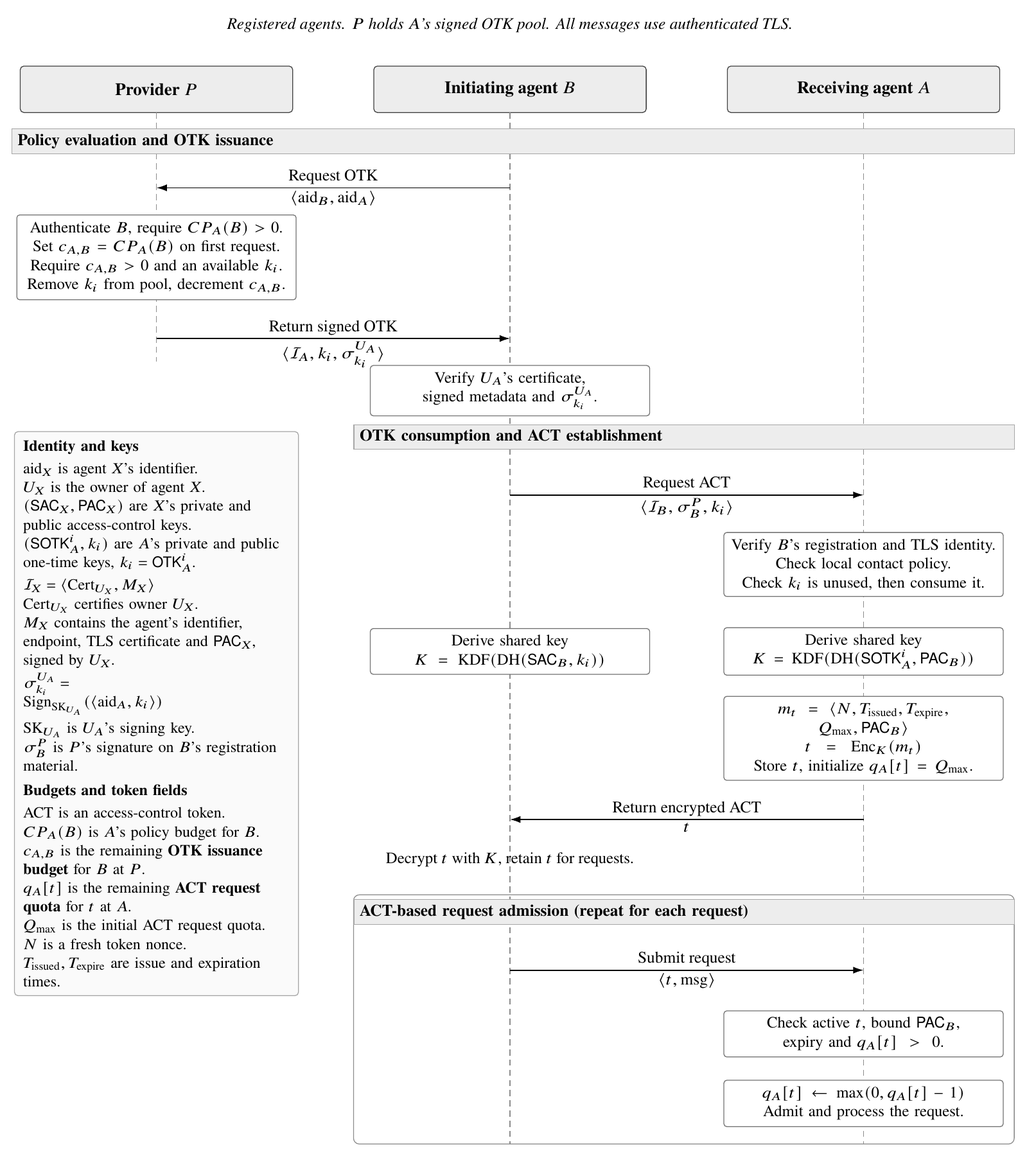
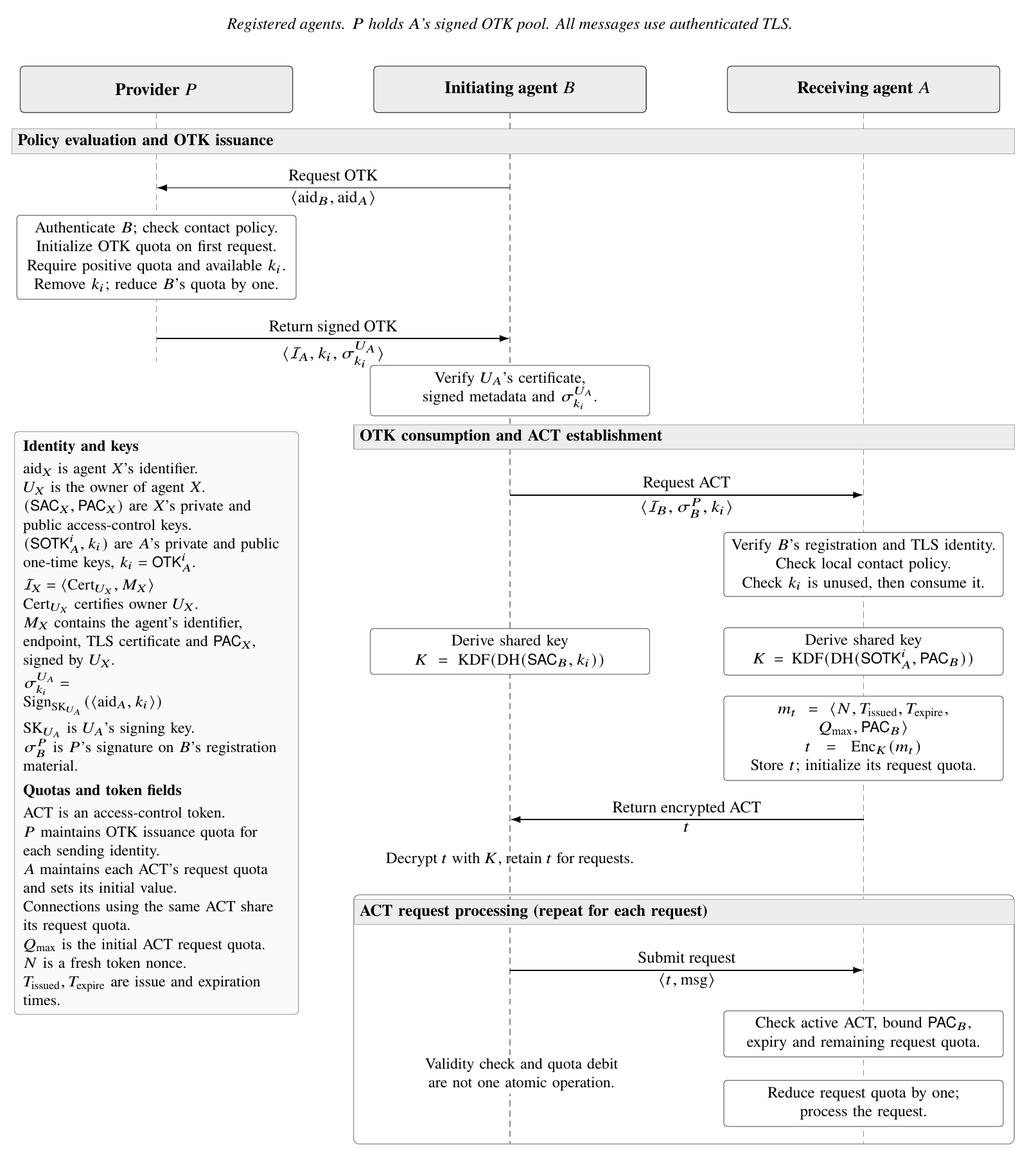
修改

diff --git a/paper_letter/draft_zh/03_形式化建模与验证设置.tex b/paper_letter/draft_zh/03_形式化建模与验证设置.tex
@@ -2,19 +2,21 @@
 % !TeX program = xelatex
 % Definitions are tied to the archived inputs identified in the source comments.
 
-\section{形式化模型的构建}
+\section{形式化建模与验证设置}
 \label{sec:formal-modeling-analysis-setup}
 
-SAGA 的接触策略、OTK 和 ACT 分别涉及规则求值、密钥发放与使用以及请求额度控制。接触策略通过参考求值与实际函数对照，并利用 ProVerif 分析授权差异对后续通信的影响；OTK 采用 Tamarin 检查发放与使用的身份关系；ACT 采用 TLA$^{+}$ 检查多个连接共享令牌额度时的并发行为。
+SAGA 的授权过程涉及接触策略匹配、OTK 发放与使用以及 ACT 请求额度控制。针对这三个环节，分别建立独立策略求值程序、Tamarin 符号模型和 TLA$^{+}$ 额度模型，并结合 ProVerif 与 TLC 检查相应的安全性质。
 
 \subsection{接触策略求值与验证}
 \label{subsec:policy-evaluation-model}
 
-接触策略根据发送方 AID 和有序规则集确定 OTK 领取预算。为独立计算预期结果，构建参考求值器，依据匹配器的评分规则对匹配规则进行选择。参考求值器支持三类规则：全通配规则（\texttt{*}）、精确小写 ASCII AID 和固定 UID 的名称通配规则（\texttt{uid:*}）。三类规则的评分分别为 $0$、UID 长度的四倍与名称长度的八倍之和，以及 UID 长度的四倍加 $2$。对于匹配规则，选择评分最高的唯一规则，并返回其对应预算；无匹配规则时返回预算 $0$。当规则语法不受支持或最高评分存在并列时，不产生求值结果。预算大于 $0$ 表示允许，否则表示拒绝。
+接触策略根据发送方 AID 和有序规则集确定 OTK 领取额度。为独立检查参考实现中的匹配函数，另行实现策略求值程序，按照 SAGA 的规则优先级选择最匹配的规则。该程序支持三类规则：全通配规则（\texttt{*}）、精确小写 ASCII AID，以及固定 UID 的名称通配规则（\texttt{uid:*}）。三类规则的评分分别为 $0$、$4|UID|+8|name|$ 和 $4|UID|+2$。对于匹配的规则，选择分值最高的一条并返回其预算；无匹配规则时返回预算 $0$。若规则格式超出程序支持范围，或最高分值并列，则程序不产生求值结果。
 
-生产匹配函数的实际返回值作为实现侧结果。将其与参考求值器在相同身份和有序规则集下的求值结果进行对照，并核验输入内容、规则顺序及对应的实现版本，以检查规则选择和预算计算的一致性。
+独立策略求值程序将预算大于 $0$ 判为允许，小于等于 $0$ 判为拒绝。参考实现中的 Provider \texttt{/access} 接口在预算小于等于 $0$ 时拒绝发放 OTK，接收方的本地策略检查则仅在预算小于 $0$ 时拒绝~\cite{sagaReferenceImpl2026}。
 
-为分析策略决策差异对通信协议执行的影响，将参考求值器判定拒绝而生产匹配函数判定允许的结果作为 ProVerif 模型的场景输入。在该场景下，利用原有通信协议模型检查应用请求接受事件与令牌签发事件之间的对应关系，以及应用请求接受事件的可达性。相应的原生查询如下：
+独立策略求值程序的结果作为预期结果，参考实现中匹配函数的实际返回值作为实现侧结果。比较时保持发送方 AID 和有序规则集一致，并记录输入内容、规则顺序及对应的实现版本，以检查两者在规则选择和预算返回方面是否一致。
+
+为分析策略决策差异对后续通信的影响，将独立策略求值程序判定为拒绝、而参考实现中的匹配函数判定为允许的结果作为 ProVerif 模型的场景输入。利用原有通信协议模型检查请求接受事件与此前令牌签发事件之间的对应关系，并检查请求接受事件是否可达。相应的 ProVerif 查询如下：
 
 \noindent\begin{minipage}{\linewidth}
 \renewcommand{\verbatimsize}{\small}
@@ -30,18 +32,18 @@ query receiver: bitstring, sender: bitstring,
 \end{verbatim}
 \end{minipage}
 
-受控消费者实验进一步检查策略决策在实际授权流程中的传播。实验设置双方均允许（A/A）、双方均拒绝（D/D），以及参考求值器拒绝而生产实现允许（D/A）三种场景。执行过程中记录 Provider 和接收方的策略匹配结果及 Provider 的 \texttt{/access} 响应，并检查 OTK 发放、接收方令牌处理、ACT 签发与存储，以及发送方对返回令牌的解密和元数据核对。对于 D/D 场景，Provider 拒绝请求，后续接收方处理流程不再执行。
+基于参考实现的实验进一步检查策略判定结果对实际授权流程的影响。实验包括双方均允许（A/A）、双方均拒绝（D/D），以及独立策略求值程序拒绝而参考实现允许（D/A）三种场景。执行过程中记录 Provider 和接收方的策略匹配结果及 Provider 的 \texttt{/access} 响应，并检查 OTK 发放、接收方对 OTK 的处理、ACT 签发与存储，以及发送方对返回 ACT 的解密和元数据核对。
 
 \subsection{OTK 发放与使用模型}
 \label{subsec:otk-issuance-use-model}
 
-OTK 的领取额度由 Provider 维护，消费状态由接收方维护。Tamarin 模型分别记录两端状态，检查成功使用 OTK 的发送方是否与此前领取该 OTK 的身份一致。模型包含 Provider $P$、接收方 $A$ 和发送方 $B,C$。初始化时，$A$ 持有两枚 OTK，$B$ 和 $C$ 各有一次不可补充的领取额度。
+OTK 的领取额度由 Provider 维护，消费状态由接收方维护。Tamarin 模型分别表示 Provider 的 OTK 领取额度和接收方的 OTK 消费状态，检查实际使用 OTK 的发送方是否与此前从 Provider 领取该 OTK 的发送方一致。模型包含 Provider $P$、接收方 $A$ 和发送方 $B,C$。初始化时，$A$ 持有两枚 OTK，$B$ 和 $C$ 各有一次不可补充的领取额度。
 
-模型使用线性事实表示 Provider 的领取额度、待发放 OTK 和接收方尚未消费的 OTK。Provider 发放 OTK 时消耗对应的领取额度和待发放密钥，接收方签发 ACT 时消耗相应的 OTK；发送方则通过持久事实保存已获得的 OTK 公钥。参与方身份与访问控制公钥（PAC）的绑定关系作为初始事实，TLS 信道表示为带端点身份的私有消息。密码学部分采用 DH 等式理论、带域标签的哈希 KDF 和理想对称加密，ACT 密文包含发送方 PAC，以保持令牌与身份的绑定关系。
+模型使用线性事实表示 Provider 的领取额度、待发放 OTK 和接收方尚未消费的 OTK。Provider 发放 OTK 时消耗对应的领取额度和待发放密钥，接收方签发 ACT 时消耗相应的 OTK；发送方则通过持久事实保存已获得的 OTK 公钥。将参与方身份与其访问控制公钥（PAC）的对应关系设为初始事实，并使用包含通信双方身份的私有消息表示 TLS 保护的通信。密码学部分采用 DH 等式理论、带域标签的哈希 KDF 和理想对称加密，ACT 密文包含发送方 PAC，以保持令牌与身份的绑定关系。
 
 威胁模型允许 $B$ 将已领取的 OTK 公钥转交给 $C$。当 $C$ 自身的 OTK 领取额度耗尽后，仍可使用 $B$ 转交的 OTK，以自身登记身份、PAC 和私钥申请 ACT。每枚 OTK 至多转交一次。基准配置中，Provider 和接收方均允许 $B,C$ 通信，并设置禁止 OTK 转交及双方拒绝 $C$ 的对照配置。
 
-Tamarin 通过协议事件记录 OTK 发放、ACT 签发、客户端解密和应用请求接受之间的执行关系。模型首先检查原有的 OTK 发放次数限制，以及单枚 OTK 的唯一发放与消费约束。在此基础上，进一步检查 OTK 发放身份与实际使用者身份的一致性，以及同一发送方成功使用的不同 OTK 数量是否至多为一枚。其中，身份一致性性质的原生定义如下：
+Tamarin 通过协议事件记录 OTK 发放、ACT 签发、客户端解密和应用请求接受之间的执行关系。模型首先检查原有的 OTK 发放次数限制，以及单枚 OTK 的唯一发放与消费约束。在此基础上，进一步检查 OTK 发放身份与实际使用者身份的一致性，以及同一发送方成功使用的不同 OTK 数量是否至多为一枚。领取者与实际使用者身份一致性由以下 Tamarin 引理表达：
 
 \begingroup
 \renewcommand{\verbatimsize}{\footnotesize}
@@ -57,14 +59,14 @@ lemma successful_use_requires_issue_to_same_sender:
 \end{minipage}
 \endgroup
 
-其中，\texttt{ProviderIssue} 表示 Provider 发放 OTK 的事件，\texttt{RequestAccepted} 表示接收方接受应用请求的事件。该性质要求成功接受的请求能够追溯到此前向同一发送方发放相应 OTK 的事件。辅助引理进一步检查 OTK 的发放与消费次数，以及请求接受与此前 ACT 签发、客户端解密事件之间的对应关系。
+其中，\texttt{ProviderIssue} 表示 Provider 发放 OTK 的事件，\texttt{RequestAccepted} 表示接收方接受应用请求的事件。该性质要求成功接受的请求能够追溯到此前向同一发送方发放相应 OTK 的事件。辅助引理进一步检查 OTK 的发放与消费次数，以及请求被接受前是否发生相应的 ACT 签发和客户端解密事件。
 
-\subsection{ACT 并发配额模型}
+\subsection{ACT 并发请求额度模型}
 \label{subsec:act-quota-model}
 
-ACT 并发配额模型采用 TLA$^{+}$ 描述多个连接共享同一令牌额度时的执行过程。模型初始化时，发送方与接收方均保存同一 ACT，双方初始余额均为令牌额度。接收方共享余额记录可用额度，各连接的局部状态记录请求处理进度，发送方余额和消息交付状态则用于表示双端处理过程。
+ACT 请求额度模型采用 TLA$^{+}$ 描述多个连接共享同一 ACT 请求额度时的执行过程。模型初始化时，发送方与接收方均保存同一 ACT，双方的额度状态均设为令牌的初始额度。接收方的共享余额表示该 ACT 的剩余请求额度；各连接的状态变量记录请求处理阶段，发送方余额和消息交付状态用于描述双端处理过程。
 
-连接建立时，接收方检查令牌元数据和剩余额度；请求解析后，再次检查令牌元数据及正余额，使连接进入已检查状态。随后，令牌检查与额度扣减分别建模为原子动作，对应参考实现中的两个独立持锁临界区~\cite{sagaReferenceImpl2026}。额度扣减动作以连接已通过检查为条件，重新获取锁后更新共享余额，不再检查当前余额是否为正。扣减通过 \texttt{Clamp} 将余额保持为非负值，同时增加该连接的准入计数。两个动作之间允许其他连接交错执行。扣减动作的原生定义如下：
+连接建立时，接收方检查令牌元数据和剩余额度；请求解析后，再次检查令牌元数据及正余额，使连接进入已检查状态。模型将令牌有效性检查与额度扣减分别表示为两个原子动作，对应参考实现中的两个独立持锁临界区~\cite{sagaReferenceImpl2026}。额度扣减动作以连接已通过检查为条件，重新获取锁后更新共享余额，但不再检查当前余额是否为正。扣减通过 \texttt{Clamp} 将余额保持为非负值，同时增加该连接已完成额度扣减的请求计数。由于检查与扣减不是同一个原子操作，两个动作之间允许其他连接交错执行。TLA$^{+}$ 动作定义如下：
 
 \begingroup
 \renewcommand{\verbatimsize}{\footnotesize}
@@ -85,7 +87,7 @@ ADebit(c) ==
 \end{minipage}
 \endgroup
 
-模型累计各连接完成额度扣减的请求数，并检查其是否超过 ACT 的初始额度。相应的原生定义如下：
+模型将各连接已完成额度扣减的请求数相加，并检查累计额度扣减次数是否超过 ACT 的初始请求额度。配额安全不变量在 TLA$^{+}$ 中定义如下：
 
 \begingroup
 \renewcommand{\verbatimsize}{\footnotesize}
@@ -101,4 +103,4 @@ ReceiverQuotaSafety == Accepted <= InitialQuota
 \end{minipage}
 \endgroup
 
-其中，\texttt{Accepted} 表示累计通过检查并完成额度扣减的请求数。TLC 检查该配额安全不变量，以及模型状态类型和余额、请求计数之间的一致性。有限状态检查将初始额度设为 $1$，设置两个连接，每个连接最多提交一个请求，并保持令牌元数据有效。
+其中，\texttt{Accepted} 表示各连接已完成额度扣减的请求总数。TLC 检查该请求额度安全不变量，以及模型状态类型和余额、请求计数之间的一致性。有限状态检查将初始请求额度设为 $1$，设置两个连接，每个连接最多提交一个请求，并保持令牌元数据有效。

diff --git a/paper_letter/draft_zh/04_验证结果与安全分析.tex b/paper_letter/draft_zh/04_验证结果与安全分析.tex
@@ -5,43 +5,43 @@
 \section{验证结果与安全分析}
 \label{sec:results}
 
-对 SAGA 授权过程的分析发现了三个问题：接触策略匹配错误、OTK 发放与使用身份不一致，以及多个连接并发使用同一 ACT 时可能超过其额度。以下分别给出验证结果、具体反例及问题产生的原因。
+对 SAGA 授权过程的分析发现了三个问题：接触策略匹配器未正确选择最匹配的规则、OTK 未与领取者身份绑定，以及 ACT 并发请求额度超限。以下分别给出验证结果、具体反例及问题产生的原因。
 
-\subsection{策略求值不一致}
+\subsection{接触策略匹配错误}
 \label{subsec:policy-evaluation-consistency}
 
-接触策略匹配函数的结果受到规则排列顺序影响，使本应被拒绝的发送方可能获得通信许可。对于身份 \texttt{alice@example.com:agent}，规则 \texttt{alice@example.com:*} 的预算为 $-1$，通配规则 \texttt{*} 的预算为 $10$，两者的具体性评分分别为 $70$ 和 $0$。按照最具体规则优先的要求，两种排列下的预期预算均为 $-1$。然而，当具体规则位于通配规则之前时，原始匹配函数返回 $10$；交换规则顺序后则返回 $-1$。
+接触策略匹配函数的返回值受到规则排列顺序影响，使本应被拒绝的发送方可能获得通信许可。对于身份 \texttt{alice@example.com:agent}，规则 \texttt{alice@example.com:*} 的预算为 $-1$，通配规则 \texttt{*} 的预算为 $10$。按照最匹配规则优先的要求，无论两条规则以何种顺序排列，均应选择该具体规则并返回预算 $-1$。然而，当具体规则位于通配规则之前时，参考实现中的匹配函数返回 $10$；交换规则顺序后则返回 $-1$。
 
-该错误源于匹配函数未正确更新当前最佳匹配规则。\texttt{best\_pattern} 初始化为 \texttt{None}，对应的初始评分为 $-1$。匹配到具体规则时，函数更新了预算，却未同步更新最佳匹配规则。因此，后续通配规则的评分 $0$ 仍与初始评分 $-1$ 比较，最终将预算覆盖为 $10$~\cite{sagaReferenceImpl2026}。
+该错误源于匹配函数未能正确更新当前最佳匹配规则。函数匹配到具体规则时更新了预算，却未同步更新 \texttt{best\_pattern}。因此，后续通配规则的分值 $0$ 仍与初始最佳分值 $-1$ 比较，最终将预算覆盖为 $10$~\cite{sagaReferenceImpl2026}。
 
-在参考求值器返回拒绝、实际匹配函数返回允许的场景中，ProVerif 对 \texttt{ChatAccept} 不可达性的查询返回 \texttt{false}，表明该事件存在可达执行路径；请求接受与令牌签发的对应查询返回 \texttt{true}，表明每个请求接受事件均对应相同接收方、发送方及令牌的先前签发事件。因此，存在令牌签发后应用请求被接受的执行路径。
+在独立策略求值程序返回拒绝、实际匹配函数返回允许的场景中，ProVerif 的 \texttt{ChatAccept} 事件可达性查询返回 \texttt{false}，表明存在触发该事件的执行路径；请求接受与令牌签发的对应查询返回 \texttt{true}，表明每个请求接受事件均对应相同接收方、发送方及令牌的先前签发事件。因此，存在令牌签发后应用请求被接受的执行路径。
 
-基于参考实现的验证实验进一步检查了该错误对实际授权流程的影响。在参考求值拒绝、实际实现允许（D/A）场景中，Provider 与接收方的匹配函数均返回预算 $10$。Provider 的 \texttt{/access} 请求返回 HTTP 200 并发放 OTK，接收方随后完成 OTK 消费及 ACT 签发与存储。发送方成功解密返回的 ACT，其内容与接收方保存的记录一致。在双方均拒绝（D/D）场景中，Provider 返回预算 $-1$，请求以 HTTP 403 拒绝；双方均允许（A/A）场景则正常完成 ACT 签发与存储。
+基于参考实现的验证实验进一步检查了该错误对实际授权流程的影响。在独立策略求值程序拒绝、参考实现允许（D/A）场景中，Provider 与接收方的匹配函数均返回预算 $10$。Provider 的 \texttt{/access} 请求返回 HTTP 200 并发放 OTK，接收方随后完成 OTK 消费及 ACT 签发与存储。发送方成功解密返回的 ACT，其内容与接收方保存的记录一致。在双方均拒绝（D/D）场景中，Provider 返回预算 $-1$，请求以 HTTP 403 拒绝；双方均允许（A/A）场景则正常完成 ACT 签发与存储。
 
-Provider 和接收方使用相同的匹配函数，导致两端均未正确执行最具体规则优先的要求，最终使本应被拒绝的发送方获得 ACT。
+Provider 和接收方使用相同的匹配函数，导致两端均未正确执行最匹配规则优先的要求，最终使本应被拒绝的发送方获得 ACT。
 
-\subsection{OTK 发放与使用身份不对应}
+\subsection{OTK 未与领取者身份绑定}
 \label{subsec:otk-issuance-use}
 
 Tamarin 发现，发送方在耗尽自身 OTK 领取额度后，仍可使用其他身份领取的 OTK 建立新的 ACT。在允许 OTK 转交且 Provider 与接收方均允许 $B,C$ 通信的配置中，Provider 分别向 $B$ 和 $C$ 发放一枚 OTK。
 
 $C$ 首先使用 Provider 发放给自己的 OTK 完成 ACT 签发、解密及首次应用请求接受。随后，Provider 因 $C$ 的领取额度耗尽而拒绝再次发放。$B$ 将自己领取且尚未消费的另一枚 OTK 转交给 $C$，$C$ 使用自身登记身份、访问控制公钥及私钥再次申请 ACT，并成功解密令牌。接收方随后接受了该 ACT 对应的首次应用请求。由此，Provider 向 $C$ 发放了 $1$ 枚 OTK，而 $C$ 成功使用了 $2$ 枚不同的 OTK。
 
-Tamarin 的存在性查询返回 \texttt{verified}，确认上述执行轨迹可达。全轨迹验证中，Provider 按发送方限制 OTK 发放次数、单枚 OTK 的唯一发放与消费，以及请求接受与此前 ACT 签发、客户端解密之间的对应性质均返回 \texttt{verified}。
+Tamarin 的存在性查询返回 \texttt{verified}，确认上述执行轨迹可达。Tamarin 对其余性质的验证中，Provider 按发送方限制 OTK 发放次数、单枚 OTK 的唯一发放与消费，以及请求接受与此前 ACT 签发、客户端解密之间的对应性质均返回 \texttt{verified}。
 
 进一步检查 OTK 发放身份与实际使用者身份的一致性时，Tamarin 返回 \texttt{falsified}，表明存在使用其他发送方领取的 OTK 成功建立通信的执行轨迹。同时，在领取额度为 $1$ 的配置下，同一发送方至多成功使用一枚不同 OTK 的性质也返回 \texttt{falsified}。上述结果表明，Provider 原有的按发送方限制 OTK 发放次数的机制仍然成立，但该限制无法阻止发送方使用其他身份领取的 OTK 获得新的 ACT。
 
-在禁止 OTK 转交的配置中，$B,C$ 的正常通信路径均可达，两项新增安全性质返回 \texttt{verified}。当 Provider 与接收方均拒绝 $C$ 时，$C$ 的通信及 OTK 转交路径不可达，而 $B$ 的正常通信仍可达，两项性质同样返回 \texttt{verified}。
+在禁止 OTK 转交的配置中，$B,C$ 的正常通信路径均可达，两项额外检查的安全性质返回 \texttt{verified}。当 Provider 与接收方均拒绝 $C$ 时，$C$ 的通信及 OTK 转交路径不可达，而 $B$ 的正常通信仍可达，两项性质同样返回 \texttt{verified}。
 
-问题产生于 OTK 发放与 ACT 签发采用不同的身份检查条件。Provider 按领取者身份限制 OTK 发放次数，而接收方根据当前连接者的身份、本地接触许可及 OTK 的未消费状态决定是否签发 ACT，却未核对该 OTK 最初发放给哪个发送方。因此，$C$ 即使耗尽自身的 OTK 领取额度，仍可使用 $B$ 转交的 OTK，以自身身份申请并获得新的 ACT。
+问题在于，Provider 按发送方身份维护 OTK 领取额度，但发放的 OTK 本身并未与领取者身份绑定。接收方在签发 ACT 时检查当前连接者的身份、本地接触许可及 OTK 是否已消费，但由于 OTK 未携带与领取者关联的身份绑定信息，无法据此判断该 OTK 是否由当前发送方领取。因此，$C$ 即使耗尽自身的 OTK 领取额度，仍可使用 $B$ 转交的 OTK，以自身身份申请并获得新的 ACT。
 
-\subsection{ACT 并发配额超额}
+\subsection{ACT 并发请求额度超限}
 \label{subsec:act-concurrent-quota}
 
-多个连接并发使用同一 ACT 时，累计完成额度扣减的请求数可能超过令牌的初始额度。TLC 在初始额度为 $1$、包含两个连接且每个连接各提交一个请求的配置下，发现 \texttt{ReceiverQuotaSafety} 不变量被违反，并生成包含 $13$ 个状态的反例轨迹。
+多个连接并发使用同一 ACT 时，累计额度扣减次数可能超过令牌的初始额度。TLC 在初始额度为 $1$、包含两个连接且每个连接各提交一个请求的配置下，发现 \texttt{ReceiverQuotaSafety} 不变量被违反，并生成包含 $13$ 个状态的反例轨迹。
 
-在第 $11$ 个状态中，连接 $c_1$ 和 $c_2$ 均已完成令牌检查，接收方剩余额度仍为 $1$。随后，$c_1$ 执行 \texttt{ADebit}，剩余额度变为 $0$，累计完成额度扣减的请求数增加至 $1$。$c_2$ 随后执行相同动作，剩余额度仍为 $0$，但累计完成额度扣减的请求数增加至 $2$，超过初始额度。因此，TLC 报告配额安全不变量被违反。
+在第 $11$ 个状态中，连接 $c_1$ 和 $c_2$ 均已完成令牌检查，接收方剩余额度仍为 $1$。随后，$c_1$ 执行 \texttt{ADebit}，剩余额度变为 $0$，累计额度扣减次数增加至 $1$。$c_2$ 随后执行相同动作，剩余额度仍为 $0$，但累计额度扣减次数增加至 $2$，超过初始额度。因此，TLC 报告配额安全不变量被违反。
 
-基于参考实现的并发实验进一步观察到了超额后端调用。初始额度为 $50$ 时，串行提交 $51$ 条请求产生 $50$ 次后端调用。随后，先串行处理 $49$ 条请求，再通过线程屏障使两个连接均通过剩余一次额度的检查，并继续执行额度扣减操作。实验最终记录了 $51$ 次后端调用，剩余额度为 $0$，三次重复实验均得到相同结果。
+基于参考实现的并发实验进一步观察到后端调用次数超过 ACT 初始请求额度。初始额度为 $50$ 时，串行提交 $51$ 条请求产生 $50$ 次后端调用。随后，先串行处理 $49$ 条请求，再通过线程屏障使两个连接均通过剩余一次额度的检查，并继续执行额度扣减操作。实验最终记录了 $51$ 次后端调用，剩余额度为 $0$，三次重复实验均得到相同结果。
 
-问题产生于令牌有效性检查与额度扣减分开执行。\texttt{token\_is\_valid()} 持锁检查令牌及剩余额度，完成后释放锁；\texttt{receive\_conversation()} 随后重新获取锁执行额度扣减，但扣减时不再检查剩余额度。两个连接因此可以在任一扣减发生前分别通过检查，随后各自执行扣减并进入后续处理流程。由于扣减后的余额被限制为非负值，即使累计完成额度扣减的请求数已经超过初始额度，剩余额度仍保持为 $0$。
+ACT 有效性检查与额度扣减未在同一原子操作内完成。\texttt{token\_is\_valid()} 在持有锁期间检查令牌及剩余额度，检查完成后释放锁；\texttt{receive\_conversation()} 随后重新获取锁并执行额度扣减，但该操作不再检查当前剩余额度。因此，两个连接可以在任何一次扣减发生前分别通过有效性检查，之后各自完成额度扣减并进入后续请求处理。由于扣减结果通过 \texttt{Clamp} 保持为非负数，余额虽不会小于零，但累计额度扣减次数仍可能超过 ACT 的初始额度。

diff --git a/paper_letter/draft_zh/02_授权流程与分析目标.tex b/paper_letter/draft_zh/02_授权流程与分析目标.tex
@@ -7,35 +7,33 @@
 \section{授权流程与分析目标}
 \label{sec:authorization-workflow-objectives}
 
-SAGA 的通信授权由策略判定、OTK 发放与消费以及 ACT 请求准入共同实现。
-相关约束由 Provider 与接收方基于不同状态执行，
-对通信许可及使用次数的分析因此需要分别考察规则求值、领取与使用身份以及请求额度的执行。
+Provider 根据接触策略判断是否向发送方发放 OTK，并按发送方身份维护 OTK 领取额度；接收方负责消费 OTK、签发 ACT，并在后续请求中检查 ACT 的有效性和剩余请求额度。因此，SAGA 的授权过程涉及接触策略匹配、OTK 发放与消费以及 ACT 请求处理。
 
 \subsection{授权流程}
 \label{subsec:authorization-workflow}
 
-SAGA 的通信授权包括策略求值与 OTK 发放、OTK 消费与 ACT 建立以及 ACT 请求准入三个阶段，如图~\ref{fig:saga-authorization-sequence}~所示。设 Provider 为 $P$，接收方和发送方代理分别为 $A$ 和 $B$，两者均已完成注册与身份绑定。
+SAGA 的通信授权包括接触策略匹配与 OTK 发放、OTK 消费与 ACT 建立以及 ACT 请求处理三个阶段，如图~\ref{fig:saga-authorization-overview}~所示。设 Provider 为 $P$，接收方和发送方代理分别为 $A$ 和 $B$，两者均已完成注册与身份绑定。
 
 \begin{figure*}[t]
   \centering
   \input{figures/saga_authorization_overview.tikz}
-  \caption{SAGA authorization overview after registration over authenticated TLS. Issuance credit at $P$ and consumption state at $A$ are maintained separately. ACT validity checking and quota debit are distinct implementation steps~\cite{syros2025sagaV2,sagaReferenceImpl2026}.}
-  \label{fig:saga-authorization-sequence}
+  \caption{SAGA authorization overview. Provider maintains the OTK issuance quota, while the receiving agent maintains OTK consumption state. ACT validity checking and quota debit are not performed as one atomic operation~\cite{syros2025sagaV2,sagaReferenceImpl2026}.}
+  \label{fig:saga-authorization-overview}
 \end{figure*}
 
-用户为 $A$ 配置接触策略，每条规则包含代理身份模式及对应的 OTK 领取预算。当多条规则匹配同一身份时，应采用最具体匹配规则的预算~\cite{syros2025sagaV2,sagaReferenceImpl2026}。$A$ 预先生成 OTK，将签名后的公钥材料提交给 $P$，并在本地保存对应私钥。$B$ 请求通信材料时，$P$ 核验其登记身份与 TLS 客户端证书，根据接触策略确定其初始领取额度，并检查剩余额度。检查通过且 OTK 可用时，$P$ 发放一枚 OTK，扣减 $B$ 的领取额度，并将该 OTK 从可发放集合中移除。$P$ 按发送方身份维护发放额度，$A$ 则独立维护 OTK 的消费状态。
+用户为 $A$ 配置接触策略，每条规则包含代理身份模式及对应的 OTK 领取额度。当多条规则匹配同一身份时，应采用最匹配规则对应的预算~\cite{syros2025sagaV2,sagaReferenceImpl2026}。$A$ 预先生成 OTK，将签名后的公钥材料提交给 $P$，并在本地保存对应私钥。$B$ 请求通信材料时，$P$ 核验其登记身份与 TLS 客户端证书，根据接触策略确定其初始领取额度，并检查剩余额度。检查通过且 OTK 可用时，$P$ 发放一枚 OTK，扣减 $B$ 的领取额度，并将该 OTK 从可发放集合中移除。$P$ 按发送方身份维护 OTK 领取额度，$A$ 则独立维护 OTK 的消费状态。
 
-$B$ 验证取得的通信材料后，与 $A$ 建立 TLS 连接并提交身份材料及 OTK。$A$ 验证当前连接者的身份与本地接触许可，确认提交的 OTK 尚未消费后，将其从本地未消费密钥表中移除。随后，$A$ 使用对应的 OTK 私钥与 $B$ 的访问控制公钥派生共享密钥，生成绑定该公钥、包含有效期与初始请求额度的 ACT，并保存其活动记录。ACT 经共享密钥加密后返回，$B$ 利用自身访问控制私钥与 OTK 派生相同密钥，解密并保存 ACT~\cite{syros2025sagaV2,sagaReferenceImpl2026}。
+$B$ 验证取得的通信材料后，与 $A$ 建立 TLS 连接并提交身份材料和 OTK。$A$ 验证当前连接者的身份与本地接触许可，确认提交的 OTK 尚未消费后，将其从本地尚未消费的 OTK 集合中移除。随后，$A$ 使用对应的 OTK 私钥与 $B$ 的访问控制公钥派生共享密钥，生成绑定该公钥、包含有效期与初始请求额度的 ACT，并保存其活动记录。ACT 经共享密钥加密后返回，$B$ 利用自身访问控制私钥与 OTK 派生相同密钥，解密并保存 ACT~\cite{syros2025sagaV2,sagaReferenceImpl2026}。
 
-后续通信中，$B$ 携带 ACT 提交请求，$A$ 核验令牌绑定的访问控制公钥、有效期及剩余请求额度，通过后扣减额度并处理请求。ACT 可以在不同连接中复用，同一令牌的剩余额度由 $A$ 统一维护，其初始额度由 $A$ 设置，与 $P$ 维护的 OTK 领取额度相互独立。参考实现通过独立线程处理不同连接，令牌有效性检查与额度扣减分别执行~\cite{sagaReferenceImpl2026}。
+后续通信中，$B$ 携带 ACT 提交请求，$A$ 核验令牌绑定的访问控制公钥、有效期及剩余请求额度，通过后扣减额度并处理请求。ACT 可以在不同连接中复用，同一令牌的剩余额度由 $A$ 统一维护，其初始额度由 $A$ 设置，与 $P$ 维护的 OTK 领取额度相互独立。参考实现通过独立线程处理不同连接，ACT 有效性检查与额度扣减未在同一原子操作内完成~\cite{sagaReferenceImpl2026}。
 
 \subsection{分析目标}
 \label{subsec:analysis-objectives-assumptions}
 
-SAGA 的通信授权涉及接触策略判定、OTK 发放与消费以及 ACT 正确使用三个阶段。本文围绕上述授权过程，分别考察接触策略的授权正确性、OTK 发放与使用的身份对应关系以及 ACT 的安全使用。
+针对接触策略匹配、OTK 发放与使用以及 ACT 请求额度控制，分别考察策略匹配结果是否符合规则优先级、OTK 是否与领取者身份绑定，以及 ACT 的实际使用是否可能不受其初始请求额度的限制。
 
-\textbf{ACP:} Agent Contact Policy 通过身份匹配规则确定发送方的通信许可及 OTK 领取预算。根据 SAGA 的规则优先语义，当多条规则同时匹配时，应采用具体性最高的匹配规则~\cite{syros2025sagaV2,sagaReferenceImpl2026}。因此，在最高评分匹配规则唯一的情况下，策略求值应返回该规则对应的预算，保证授权决策符合预期的策略语义。
+\textbf{ACP:} Agent Contact Policy 根据发送方 AID 与策略规则确定其通信许可和 OTK 领取额度。当多条规则同时匹配同一 AID 时，应按照规则优先级选择最匹配的规则，并以该规则对应的预算作为策略求值结果。分析重点是检查实际匹配函数是否正确返回该预算~\cite{syros2025sagaV2,sagaReferenceImpl2026}。
 
-\textbf{OTK:} OTK 参与通信材料的分发及后续 ACT 的建立，其发放和消费分别由 Provider 与接收方执行。SAGA 通过按身份维护领取额度限制 OTK 发放次数。除原有发放上限外，本文进一步考察 OTK 的领取者与实际使用者之间的身份对应关系，即成功使用某枚 OTK 的发送方，应能够追溯到 Provider 向同一身份发放该 OTK 的先前事件。该对应关系作为额外的安全性质进行分析，其中成功使用以新 ACT 建立、解密及首次应用请求准入为判定依据。
+\textbf{OTK:} OTK 参与通信材料的分发及后续 ACT 的建立，其发放和消费分别由 Provider 与接收方执行。SAGA 通过按身份维护领取额度限制 OTK 发放次数。除原有发放上限外，本文进一步考察 OTK 的领取者与实际使用者之间的身份对应关系，即成功使用某枚 OTK 的发送方，应能够追溯到 Provider 向同一身份发放该 OTK 的先前事件。该对应关系作为额外的安全性质进行分析，其中成功使用以新 ACT 建立、解密及首次应用请求被接收方接受为判定依据。
 
-\textbf{ACT:} ACT 对已授权通信中的请求实施访问控制，其有效性受到身份绑定、有效期及请求额度等条件约束。对于同一 ACT，后续请求的准入应遵循其授权约束。本文重点考察多个连接并发使用同一令牌时的累计请求准入性质，要求获准进入处理流程的请求总数不超过该令牌的初始额度。
+\textbf{ACT:} ACT 对已授权通信中的后续请求实施访问控制，其有效性受到身份绑定、有效期及请求额度等条件约束。本研究重点考察是否存在 ACT 的实际使用不受其初始请求额度限制的情况。

diff --git a/paper_letter/draft_zh/01_引言.tex b/paper_letter/draft_zh/01_引言.tex
@@ -5,15 +5,15 @@
 \section{引言}
 \label{sec:introduction}
 
-在多代理系统中，代理间通信不仅需要保证通信实体的真实性，还需要控制通信的建立及其资源使用。SAGA~\cite{syros2025saga} 是一种面向 AI Agent 系统的安全架构，通过接触策略、一次性公钥（One-Time Key，OTK）和访问控制令牌（Access Control Token，ACT）实现通信授权，分别约束通信的建立与后续请求的执行。
+在多代理系统中，代理间通信需要验证通信双方的身份，据此限制通信建立及后续请求的执行。SAGA~\cite{syros2025saga} 是一种面向 AI Agent 系统的安全架构，通过接触策略决定发送方能否取得接收方的一次性公钥（One-Time Key，OTK），并利用 OTK 建立访问控制令牌（Access Control Token，ACT）。后续请求则由 ACT 的身份绑定、有效期和剩余请求额度进行控制。
 
-SAGA 原有研究采用 ProVerif~\cite{blanchet2016proverif} 对代理与 Provider 之间的通信认证、代理间通信认证以及 ACT 机密性进行了形式化分析~\cite{syros2025saga}。然而，认证与机密性并不足以保证授权机制的正确执行。SAGA 的通信授权还依赖策略规则的正确求值、凭证发放与使用之间的身份关联，以及请求额度的有效控制。这些授权性质有待进一步分析。
+SAGA 原有研究采用 ProVerif~\cite{blanchet2016proverif} 对代理与 Provider 之间的通信认证、代理间通信认证以及 ACT 机密性进行了形式化分析~\cite{syros2025saga}。然而，通信认证与 ACT 机密性并不足以保证授权机制的正确执行。授权结果还取决于接触策略能否正确选择最匹配的规则、OTK 是否与领取者身份绑定，以及 ACT 请求额度是否得到正确控制。这些问题仍需进一步分析。
 
-本文依据 SAGA 的协议规范与参考实现~\cite{syros2025sagaV2,sagaReferenceImpl2026}，从策略求值、OTK 发放与使用以及 ACT 请求准入三个阶段对其授权机制开展安全分析。通过参考语义与实际策略求值结果的对照检查，利用 Tamarin~\cite{meier2013tamarin} 建立 OTK 发放与使用的符号模型，并采用 TLA$^{+}$~\cite{lamport2002specifying} 对 ACT 额度控制中的并发行为进行建模，结合参考实现中的受控实验，得到以下研究发现。
+本文依据 SAGA 的协议规范与参考实现~\cite{syros2025sagaV2,sagaReferenceImpl2026}，从接触策略匹配、OTK 发放与使用以及 ACT 请求额度控制三个方面开展安全分析。针对接触策略，比较独立求值程序给出的预期预算与参考实现中匹配函数的实际返回值，并利用 ProVerif 分析策略判定差异对后续通信的影响；针对 OTK，利用 Tamarin~\cite{meier2013tamarin} 建立发放与使用过程的符号模型，检查 OTK 与领取者身份之间的绑定关系；针对 ACT，采用 TLA$^{+}$~\cite{lamport2002specifying} 建立额度控制模型，并结合参考实现实验检查有效性检查与额度扣减的执行情况。
 
-（1）策略匹配器未能正确执行规则优先语义，使预期被拒绝的发送方能够获得有效的 ACT。
+（1）接触策略匹配器未能正确选择最匹配的规则，使本应被拒绝的发送方能够获得 ACT。
 
-（2）OTK 消费阶段缺少对原始领取者身份的核验。在双方策略均许可的条件下，发送方可利用其他身份转交的 OTK，获得超过自身 OTK 领取额度的新 ACT。
+（2）OTK 未与领取者身份绑定，使发送方能够使用其他发送方领取的 OTK 建立新的 ACT。
 
-（3）ACT 有效性检查与额度扣减之间存在原子性缺口，使同一令牌的累计请求准入次数在并发条件下超过其初始额度。
+（3）ACT 有效性检查与额度扣减未在同一原子操作内完成，使并发请求的累计额度扣减次数超过令牌的初始额度。
 

diff --git a/paper_letter/draft_zh/05_讨论与结论.tex b/paper_letter/draft_zh/05_讨论与结论.tex
@@ -5,6 +5,6 @@
 \section{讨论与结论}
 \label{sec:discussion-conclusion}
 
-对 SAGA 授权流程的分析揭示了三个不同执行阶段的安全问题。接触策略匹配器未正确维护规则优先关系，使预期拒绝的发送方能够取得 ACT；Tamarin 分析表明，即使 Provider 的按身份 OTK 发放上限与接收方的单次消费约束均成立，发送方仍可利用其他身份转交的 OTK 获取超过自身领取次数的新 ACT；ACT 的有效性检查与额度扣减相互分离，使并发请求能够突破令牌的累计准入上限，原生方法实验进一步观察到了超额后端调用。
+本文对 SAGA 的授权过程进行了分析，发现三个问题。首先，接触策略匹配函数未能在遍历规则时正确更新当前最佳匹配规则，导致匹配结果受到规则排列顺序影响，并可能使本应被拒绝的发送方获得 ACT。其次，OTK 未与领取者身份绑定，因此发送方在自身 OTK 领取额度耗尽后，仍可使用其他发送方领取的 OTK 建立新的 ACT。最后，ACT 有效性检查与额度扣减未在同一原子操作内完成，多个并发请求可能基于相同的剩余额度分别通过检查，使累计额度扣减次数超过 ACT 的初始额度。
 
-这些发现揭示了 SAGA 授权机制中三种不同的约束失配。策略判定的问题在于预期的规则优先语义未得到正确执行；OTK 的问题在于OTK并没有和OTK的领取者进行绑定,导致可以转交给OTK额度耗尽的人使用；ACT 的问题则在于局部互斥的额度检查与扣减没有在一个原子内操作进行。由此，SAGA 授权执行中的关键缺口被具体定位于规则选择、凭证发放与使用的身份关联，以及共享额度的并发更新，为相应安全机制的改进提供了明确依据。
+ProVerif 分析展示了策略匹配错误对后续请求接受的影响，Tamarin 给出了其他发送方领取的 OTK 被转交和使用的可达轨迹，TLA$^{+}$ 模型及参考实现实验则验证了 ACT 额度超限的并发执行过程。上述结果表明，SAGA 的授权安全不仅取决于通信认证和 ACT 机密性，还依赖接触策略的正确匹配、OTK 与领取者身份绑定，以及 ACT 有效性检查与额度扣减在同一原子操作内完成。

diff --git a/paper_letter/draft_zh/main.tex b/paper_letter/draft_zh/main.tex
@@ -33,7 +33,7 @@
 \begin{document}
 \pagestyle{plain}
 \begin{summary}
-SAGA 是一种面向 AI Agent 系统的安全架构，其现有安全分析主要关注通信认证与令牌机密性。本文结合形式化分析与实现层面的实验，研究 SAGA 授权机制的安全性，发现三个问题：策略匹配错误导致非预期授权；OTK 发放与使用之间缺乏领取者身份绑定，使代理能够获取超过自身领取额度的新 ACT；ACT 有效性检查与额度扣减之间的原子性缺口导致并发请求超额准入。
+SAGA 是一种面向 AI Agent 系统的安全架构，现有研究主要对通信认证与 ACT 机密性进行形式化分析。本文结合形式化建模与参考实现实验，对 SAGA 的授权机制进行分析，发现三个问题：接触策略匹配器未能正确选择最匹配的规则，可能使本应被拒绝的发送方获得 ACT；OTK 未与领取者身份绑定，使其他发送方能够使用并非由其领取的 OTK 建立新的 ACT；ACT 有效性检查与额度扣减未在同一原子操作内完成，使并发请求的累计额度扣减次数超过令牌的初始额度。
 \end{summary}
 \begin{keywords}
 AI Agent，SAGA，形式化分析，访问控制，协议安全
